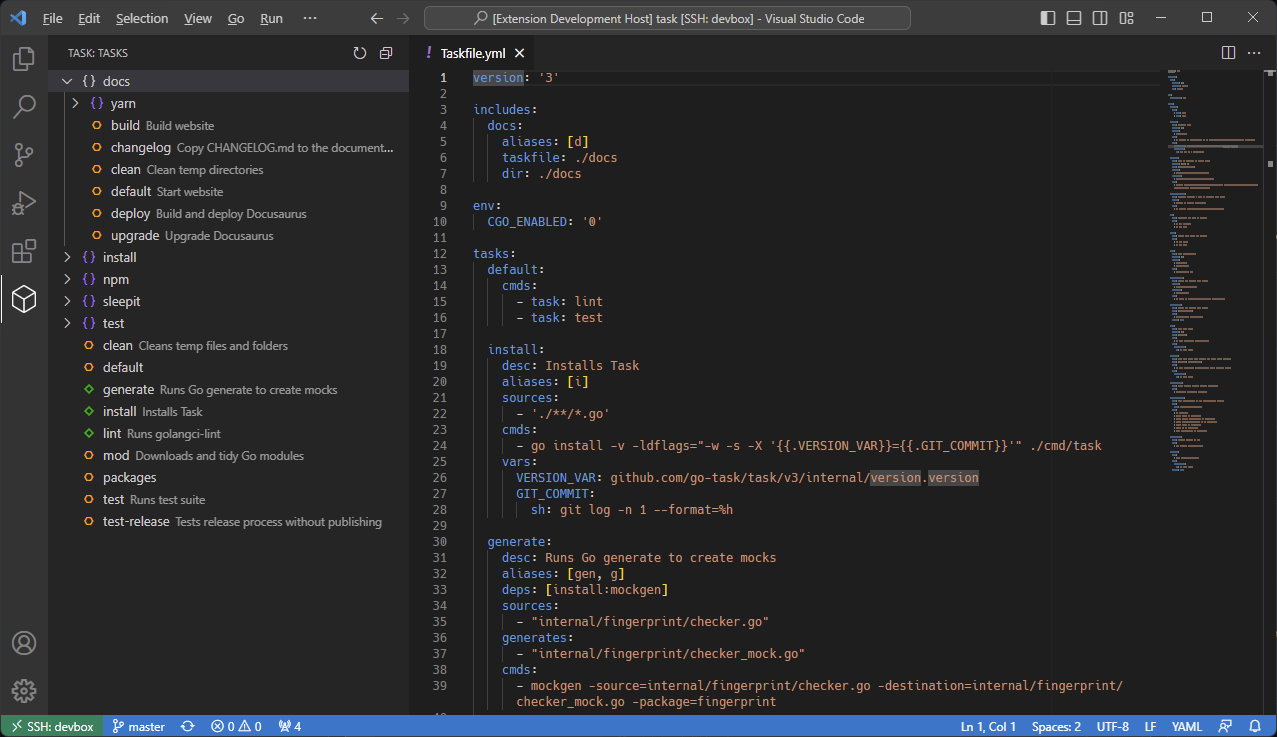
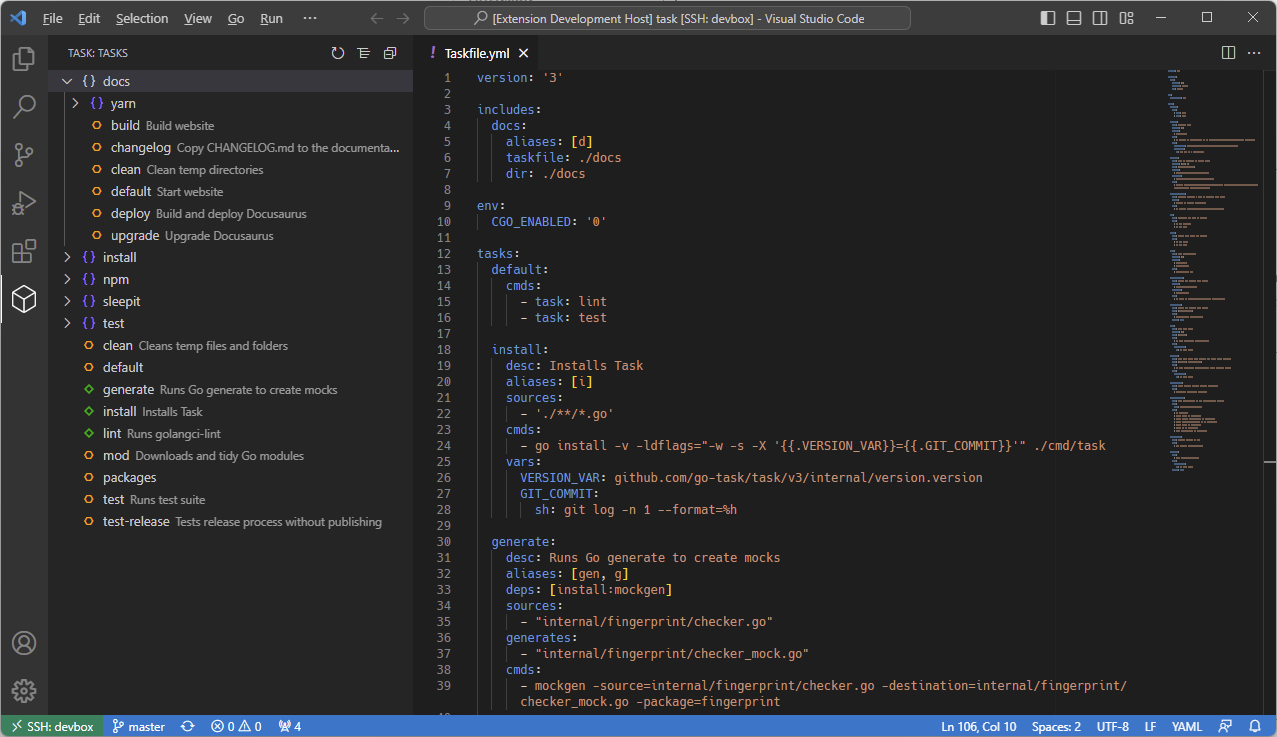
feat: toggle tree view nesting

diff --git a/src/providers/taskTreeDataProvider.ts b/src/providers/taskTreeDataProvider.ts
@@ -5,10 +5,18 @@ import * as path from 'path';
 
 const namespaceSeparator = ':';
 
-export class Tasks implements vscode.TreeDataProvider<elements.TreeItem> {
+export class TaskTreeDataProvider implements vscode.TreeDataProvider<elements.TreeItem> {
     private _onDidChangeTreeData: vscode.EventEmitter<elements.TaskTreeItem | undefined> = new vscode.EventEmitter<elements.TaskTreeItem | undefined>();
     readonly onDidChangeTreeData: vscode.Event<elements.TaskTreeItem | undefined> = this._onDidChangeTreeData.event;
     private _taskfiles?: models.Taskfile[];
+
+    constructor(
+        private nestingEnabled: boolean = false
+    ) { }
+
+    setTreeNesting(enabled: boolean) {
+        this.nestingEnabled = enabled;
+    }
 
     getTreeItem(element: elements.TreeItem): vscode.TreeItem {
         return element;
@@ -74,7 +82,7 @@ export class Tasks implements vscode.TreeDataProvider<elements.TreeItem> {
 
                 // Check if the task has a namespace
                 // If it does, add it to the namespace/tasks map
-                if (namespacePath !== "") {
+                if (this.nestingEnabled && namespacePath !== "") {
                     let namespaceLabel = getNamespaceLabel(namespacePath);
                     let namespaceTreeItem = namespaceTreeItems.get(namespaceLabel) ?? new elements.NamespaceTreeItem(
                         namespaceLabel,
@@ -89,7 +97,7 @@ export class Tasks implements vscode.TreeDataProvider<elements.TreeItem> {
 
                 // Otherwise, create a tree item for the task
                 else {
-                    let taskLabel = getTaskLabel(task);
+                    let taskLabel = getTaskLabel(task, this.nestingEnabled);
                     let taskTreeItem = new elements.TaskTreeItem(
                         taskLabel,
                         workspace,
@@ -138,8 +146,10 @@ export class Tasks implements vscode.TreeDataProvider<elements.TreeItem> {
         return workspaceTreeItems;
     }
 
-    refresh(taskfiles: models.Taskfile[]): void {
-        this._taskfiles = taskfiles;
+    refresh(taskfiles?: models.Taskfile[]): void {
+        if (taskfiles) {
+            this._taskfiles = taskfiles;
+        }
         this._onDidChangeTreeData.fire(undefined);
     }
 }
@@ -174,9 +184,9 @@ function getNamespaceLabel(namespacePath: string): string {
     return namespacePath.substring(0, namespacePath.indexOf(namespaceSeparator));
 }
 
-function getTaskLabel(task: models.Task): string {
+function getTaskLabel(task: models.Task, nestingEnabled: boolean): string {
     // If the task has no namespace, return the task's name
-    if (!task.name.includes(namespaceSeparator)) {
+    if (!task.name.includes(namespaceSeparator) || !nestingEnabled) {
         return task.name;
     }
     // Return the task's name by removing the namespace

diff --git a/src/task.ts b/src/task.ts
@@ -14,6 +14,7 @@ export class TaskExtension {
         this._settings = new Settings();
         this._activityBar = new elements.ActivityBar();
         this._watcher = vscode.workspace.createFileSystemWatcher("**/*.{yml,yaml}");
+        this.setTreeNesting(this._settings.treeNesting);
     }
 
     public async update(): Promise<void> {
@@ -36,6 +37,11 @@ export class TaskExtension {
         }).catch((err: string) => {
             console.error(err);
         });
+    }
+
+    public setTreeNesting(enabled: boolean): void {
+        this._activityBar.setTreeNesting(enabled);
+        vscode.commands.executeCommand('setContext', 'vscode-task:treeNesting', enabled);
     }
 
     public registerCommands(context: vscode.ExtensionContext): void {
@@ -63,6 +69,16 @@ export class TaskExtension {
         // Refresh tasks
         context.subscriptions.push(vscode.commands.registerCommand('vscode-task.refresh', () => {
             this.updateAndRefresh();
+        }));
+
+        // View tasks as list
+        context.subscriptions.push(vscode.commands.registerCommand('vscode-task.viewAsList', () => {
+            this.setTreeNesting(false);
+        }));
+
+        // View tasks as tree
+        context.subscriptions.push(vscode.commands.registerCommand('vscode-task.viewAsTree', () => {
+            this.setTreeNesting(true);
         }));
 
         // Run task

diff --git a/src/elements/activityBar.ts b/src/elements/activityBar.ts
@@ -3,11 +3,11 @@ import * as providers from '../providers';
 import * as models from '../models';
 
 export class ActivityBar {
-    private _provider: providers.Tasks;
+    private _provider: providers.TaskTreeDataProvider;
 
     constructor() {
         // Create the data provider
-        this._provider = new providers.Tasks();
+        this._provider = new providers.TaskTreeDataProvider();
 
         // Register the tree view with its data provider
         vscode.window.createTreeView('vscode-task.tasks', {
@@ -16,7 +16,12 @@ export class ActivityBar {
         });
     }
 
-    public refresh(taskfiles: models.Taskfile[]) {
+    public setTreeNesting(enabled: boolean) {
+        this._provider.setTreeNesting(enabled);
+        this._provider.refresh();
+    }
+
+    public refresh(taskfiles?: models.Taskfile[]) {
         this._provider.refresh(taskfiles);
     }
 }

diff --git a/src/settings.ts b/src/settings.ts
@@ -1,24 +1,20 @@
 import * as vscode from 'vscode';
 
-
 export class Settings {
+    public updateOn!: string;
+    public treeNesting!: boolean;
 
     constructor() {
         this.update();
     }
-
-    // Variables
-    public updateOn!: string;
 
     // Fetches all the settings from the workspace configuration file
     public update() {
         // Get the workspace config
         let config = vscode.workspace.getConfiguration("task");
 
-        // Get the configs
-        let updateOn: string | undefined = config.get("updateOn");
-
-        // Set the configs
-        this.updateOn = updateOn !== undefined ? updateOn : "change";
+        // Set the properties
+        this.updateOn = config.get("updateOn") ?? "change";
+        this.treeNesting = config.get("tree.nesting") ?? true;
     }
 }

diff --git a/src/providers/index.ts b/src/providers/index.ts
@@ -1,1 +1,1 @@
-export * from './tasks';
+export * from './taskTreeDataProvider';

diff --git a/README.md b/README.md
@@ -29,3 +29,10 @@
 ---
 
 ![Task for Visual Studio Code Preview](./res/preview.png)
+
+## Configuration
+
+| Setting        | Type      | Allowed Values       | Default  | Description                                      |
+| -------------- | --------- | -------------------- | -------- | ------------------------------------------------ |
+| `updateOn`     | `string`  | `"manual"`, `"save"` | `"save"` | When should the task list be updated.            |
+| `tree.nesting` | `boolean` |                      | `true`   | Should the task list be nested or not by default |

diff --git a/CHANGELOG.md b/CHANGELOG.md
@@ -11,4 +11,6 @@
   - If no Taskfile is detected a button will appear in the sidebar.
 - Refresh on save.
   - Configurable via `task.updateOn` setting (values: `save` (default) or `manual`).
+- Toggle tree nesting on/off
+  - Configurable via `task.nesting` setting (values: `true` (default) or `false`).
 - Sidebar icon provided by @drite93.
